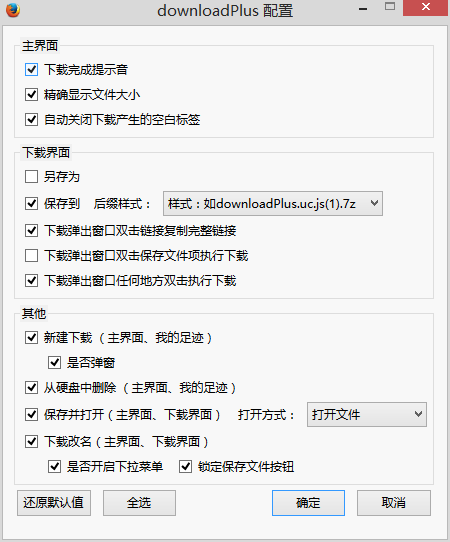
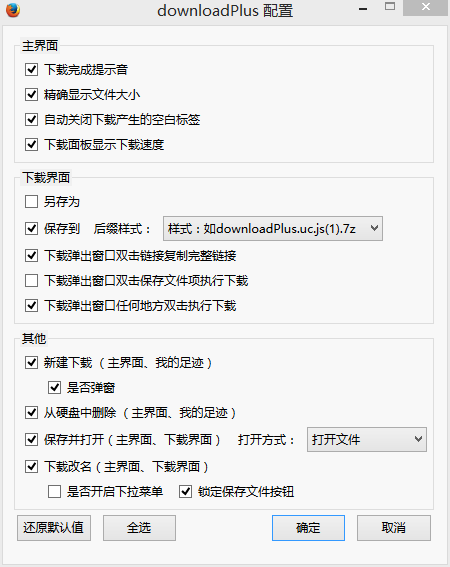
update
使用黒仪大螃蟹的最新"从硬盘中删除"代码
增加"下载面板显示下载速度"功能
改名为newDownloadPlus.uc.js

diff --git a/.test/newDownloadPlus.uc.js b/.test/newDownloadPlus.uc.js
@@ -1,5 +1,5 @@
 // ==UserScript==
-// @name         downloadPlus V38.uc.js
+// @name         newDownloadPlus.uc.js
 // @description  从硬盘中删除+下载重命名并可转码+双击复制链接+另存为+保存并打开+完成下载提示音+自动关闭下载产生的空白标签。
 // @author       Kelo 再次修改整合  (w13998686967、ywzhaiqi、黒仪大螃蟹、Alice0775、紫云飞)
 // @charset      UTF-8
@@ -12,6 +12,7 @@
 // @shutdown     window.downloadPlus.onDestroy();
 // @optionsURL   about:config?filter=userChromeJS.downloadPlus.
 // @config 	 window.downloadPlus.openPref();
+// @version      2015.05.07 使用黒仪大螃蟹的最新"从硬盘中删除"代码  增加"下载面板显示下载速度"功能
 // @version      2015.05.03 修复一些Bug，脚本开关无需重启了
 // @version      2015.05.02 修复多个功能，完美支持FFV38，完善设置UI。增加N个功能
 // @version      2015.05.01 修复多个功能，增加设置UI
@@ -73,6 +74,7 @@
 					case 'autoClose_blankTab':
 					case 'save_And_Open':
 					case 'save_And_Open_RorL':
+					case 'download_speed':
 					case 'download_dialog_changeName':
 					case 'download_dialog_changeName_encodingConvert':
 					case 'download_dialog_changeName_locking':
@@ -92,6 +94,7 @@
 		loadDefault: function() {
 			this.Default_DownloadUtils_convertByteUnits = DownloadUtils.convertByteUnits;
 			this.Default_gBrowser_mTabProgressListener = gBrowser.mTabProgressListener.toString();
+			this.Default_DownloadsViewItem_prototype_update = (DownloadsViewItem.prototype._updateStatusLine || DownloadsViewItem.prototype._updateProgress).toString();
 		},
 
 		loadSetting: function(type) {
@@ -144,6 +147,9 @@
 						}
 						if (!type || type === "download_dialog_changeName") {
 							download_dialog_changeName_on_main(self.getPrefs(0, "download_dialog_changeName", false));
+						}
+						if (!type || type === "download_speed") {
+							download_speed(self.getPrefs(0, "download_speed", false));
 						}
 					}, 200);
 					break;
@@ -234,6 +240,7 @@
 							<preference id="autoClose_blankTab" type="bool" name="userChromeJS.downloadPlus.autoClose_blankTab"/>\
 							<preference id="save_And_Open" type="bool" name="userChromeJS.downloadPlus.save_And_Open"/>\
 							<preference id="save_And_Open_RorL" type="int" name="userChromeJS.downloadPlus.save_And_Open_RorL"/>\
+							<preference id="download_speed" type="bool" name="userChromeJS.downloadPlus.download_speed"/>\
 							<preference id="download_dialog_changeName" type="bool" name="userChromeJS.downloadPlus.download_dialog_changeName"/>\
 							<preference id="download_dialog_changeName_encodingConvert" type="bool" name="userChromeJS.downloadPlus.download_dialog_changeName_encodingConvert"/>\
 							<preference id="download_dialog_changeName_locking" type="bool" name="userChromeJS.downloadPlus.download_dialog_changeName_locking"/>\
@@ -254,6 +261,7 @@
 								$("autoClose_blankTab").value = aBool;\
 								$("save_And_Open").value = aBool;\
 								$("save_And_Open_RorL").value = aBool ? 1 : 0;\
+								$("download_speed").value = aBool;\
 								$("download_dialog_changeName").value = aBool;\
 								$("download_dialog_changeName_encodingConvert").value = aBool;\
 								$("download_dialog_changeName_locking").value = aBool;\
@@ -293,6 +301,7 @@
 							<checkbox id="downloadSound_Play" label="下载完成提示音" preference="downloadSound_Play"/>\
 							<checkbox id="downloadFileSize" label="精确显示文件大小" preference="downloadFileSize"/>\
 							<checkbox id="autoClose_blankTab" label="自动关闭下载产生的空白标签" preference="autoClose_blankTab"/>\
+							<checkbox id="download_speed" label="下载面板显示下载速度" preference="download_speed"/>\
 						</groupbox>\
 						<groupbox>\
 							<caption label="下载界面"/>\
@@ -490,54 +499,36 @@
 				if (state != "0" && state != "4" && state != "5")
 					RMBtn.removeAttribute("disabled");
 			},
-
 			removeMenu: function() {
-				try {
-					removeDownloadfile.removeStatus();
-				} catch (e) {};
+				try {removeDownloadfile.removeStatus();} catch (e) {};
 				if (document.querySelector("#removeDownload")) return;
 				var menuitem = document.createElement("menuitem"),
 					rlm = document.querySelector('.downloadRemoveFromHistoryMenuItem');
-				menuitem.setAttribute("label", rlm.getAttribute("label").indexOf("History") != -1 ? "Delete File" : "\u4ece\u7535\u8111\u786c\u76d8\u4e2d\u79fb\u9664");
+				menuitem.setAttribute("label", rlm.getAttribute("label").indexOf("History") != -1 ? "Delete File" : "\u4ECE\u786C\u76D8\u4E2D\u5220\u9664");
 				menuitem.setAttribute("id", "removeDownload");
 
 				menuitem.onclick = function(e) {
 					if (e.target.disabled) return;
 					var path = "";
 					if (typeof DownloadsViewItemController != "undefined") {
-						try {
-							if (downloadPlus.appVersion < 38) {
-								DownloadsView._dataItems.forEach(function(item) {
-									if (item.downloadGuid == DownloadsView.richListBox.selectedItem.getAttribute("downloadGuid")) {
-										path = item.file;
-										if (item.done == false) path += ".part";
-										if (!path) console.error('错误\n不用担心，只是有时菜单捕获不到');
-										return path;
-									}
-								});
-							} else if (downloadPlus.appVersion >= 38) {
-								DownloadsView._downloads.forEach(function(item) {
-									var _path = decodeURI(DownloadsView.richListBox.selectedItem.image)
-										.replace(/moz\-icon\:\/\//, "").replace(/\?size\=32$/, "")
-										.replace(/\?size\=32\&state\=normal$/, "").replace(/\//g, "\\\\");
-									if (item.target.path == _path) path = _path;
-									if (DownloadsView.richListBox.selectedItem.getAttribute('state') == "2") path = path + ".part";
-									if (!path) console.error('错误\n不用担心，只是有时菜单捕获不到');
-									return path;
-								});
-							}
-						} catch (e) {
-							path = decodeURI(DownloadsView.richListBox.selectedItem.image)
-								.replace(/moz\-icon\:\/\/file\:\/\/\//, "").replace(/\?size\=32$/, "")
-								.replace(/\?size\=32\&state\=normal$/, "").replace(/\//g, "\\\\");
-							if (DownloadsView.richListBox.selectedItem.getAttribute('state') == "2") path = path + ".part";
-							if (!path) console.error('错误\n不用担心，只是有时菜单捕获不到');
+						let selectedItem = DownloadsView.richListBox.selectedItem;
+						if (DownloadsView.controllerForElement) {
+							//FF38
+							path = DownloadsView.controllerForElement(selectedItem).download.target.path;
+						} else {
+							//FF37
+							path = (new DownloadsViewItemController(selectedItem)).dataItem.file;
 						}
 					} else {
 						DownloadsView = document.getElementById("downloadsRichListBox")._placesView;
-						var selectedItems = DownloadsView._richlistbox.selectedItems;
-						if (downloadPlus.appVersion < 38) path = selectedItems[0]._shell._metaData.filePath;
-						else if (downloadPlus.appVersion >= 38) path = selectedItems[0]._shell.download.target.path;
+						let selectedItemsShell = DownloadsView._richlistbox.selectedItems[0]._shell;
+						if (!(selectedItemsShell._metaData && selectedItemsShell._metaData.filePath)) {
+							//FF38
+							path = (selectedItemsShell._sessionDownload || selectedItemsShell._historyDownload).target.path;
+						} else {
+							//FF37
+							path = selectedItemsShell._metaData.filePath;
+						}
 					}
 
 					var file = Components.classes["@mozilla.org/file/local;1"].createInstance(Components.interfaces.nsILocalFile);
@@ -549,14 +540,26 @@
 							.getFileFromURLSpec(path).path;
 						file.initWithPath(fileUrl);
 					}
+					if (!file.exists()) {
+						if (/\..{0,10}(\.part)$/.test(file.path))
+							file.initWithPath(file.path.replace(".part", ""));
+						else
+							file.initWithPath(file.path + ".part");
+					}
 					if (file.exists()) {
 						file.permissions |= 0666;
 						file.remove(0);
 					}
 
 					if (typeof DownloadsViewItemController != "undefined") {
-						if (downloadPlus.appVersion < 38) new DownloadsViewItemController(DownloadsView.richListBox.selectedItem).doCommand("cmd_delete");
-						else if (downloadPlus.appVersion >= 38) DownloadsView.controllerForElement(DownloadsView.richListBox.selectedItem).doCommand("cmd_delete");
+						let selectedItem = DownloadsView.richListBox.selectedItem;
+						if (DownloadsView.controllerForElement) {
+							//FF38
+							DownloadsView.controllerForElement(selectedItem).doCommand("cmd_delete");
+						} else {
+							//FF37
+							(new DownloadsViewItemController(selectedItem)).doCommand("cmd_delete");
+						}
 					} else {
 						DownloadsView.doCommand("cmd_delete");
 					}
@@ -566,21 +569,19 @@
 				removeDownloadfile.removeStatus();
 			},
 
-			Start: function() {
+			init: function() {
 				document.querySelector("#downloadsContextMenu").addEventListener("popupshowing", this.removeMenu, false);
-
 			}
 		}
 		if (location != "chrome://browser/content/places/places.xul") {
 			try {
 				eval("DownloadsPanel.showPanel = " + DownloadsPanel.showPanel.toString()
-					.replace(/this\.\_openPopupIfDataReady\(\)/, "{$&;removeDownloadfile\.Start\(\);}"));
-
+					.replace(/(?:this|DownloadsPanel)\.\_openPopupIfDataReady\(\)/, "{$&;removeDownloadfile\.init\(\);}"));
 			} catch (e) {
 				//Components.utils.reportError(e);
 			}
 		} else {
-			removeDownloadfile.Start();
+			removeDownloadfile.init();
 		}
 	}
 
@@ -626,7 +627,7 @@
 			saveAndOpen.setAttribute("label", "\u4FDD\u5B58\u5E76\u6253\u5F00");
 			saveAndOpen.setAttribute("oncommand", 'Components.classes["@mozilla.org/browser/browserglue;1"].getService(Components.interfaces.nsIBrowserGlue).getMostRecentBrowserWindow().saveAndOpen.urls.push(dialog.mLauncher.source.asciiSpec);document.querySelector("#save").click();document.documentElement.getButton("accept").disabled=0;document.documentElement.getButton("accept").click()')
 		}
-	//作用于 main 窗口
+		//作用于 main 窗口
 	function saveAndOpen_on_main(enable) {
 		if (!enable) return;
 		Components.utils.import("resource://gre/modules/Downloads.jsm");
@@ -878,6 +879,27 @@
 			downloadPlus.download_dialog_doubleclickanyW && document.documentElement.getButton("accept").click();
 			event.target.nodeName === "radio" && document.documentElement.getButton("accept").click();
 		}, false)
+	}
+
+	function download_speed(enable) {
+		if (!enable) {
+			if (downloadPlus.appVersion >= 38) {
+				eval("DownloadsViewItem.prototype._updateProgress = " +
+					downloadPlus.Default_DownloadsViewItem_prototype_update);
+			} else if (downloadPlus.appVersion < 38) {
+				eval("DownloadsViewItem.prototype._updateStatusLine = " +
+					downloadPlus.Default_DownloadsViewItem_prototype_update)
+			}
+			return;
+		}
+		if (downloadPlus.appVersion >= 38) {
+			eval("DownloadsViewItem.prototype._updateProgress = " +
+				DownloadsViewItem.prototype._updateProgress.toString().replace('status.text', 'status.tip'));
+		} else if (downloadPlus.appVersion < 38) {
+			eval("DownloadsViewItem.prototype._updateStatusLine = " +
+				DownloadsViewItem.prototype._updateStatusLine.toString().replace('[statusTip', '[status'))
+		}
+
 	}
 
 	function $(id, doc) {

diff --git a/.test/README.md b/.test/README.md
@@ -2,7 +2,7 @@
 ===================================  
 测试中的 UC 脚本
 
-downloadPlus V38.uc.js
+newDownloadPlus.uc.js
 ----------------------------------- 
  - 修复此脚本在 Firefox V38 下的各种问题，并增加一些原脚本没有的功能。（V38以下仍支持）  
  - 还有点小问题，正在测试中...   
@@ -15,7 +15,7 @@ downloadPlus V38.uc.js
  - "从硬盘中删除"、"保存并打开"功能由打开到关闭需要重启后生效（暂时这样马上会更新的）。  
 
  - **原功能**
-  - 从硬盘中删除 （已修复在V38问题，V37以下可能还有问题，等待更新）
+  - 从硬盘中删除
   - 下载重命名并可转码
   - 双击复制链接
   - 另存为
@@ -27,12 +27,14 @@ downloadPlus V38.uc.js
   - [x] 设置UI，轻松操作，再也不用改代码。  
   - [x] 下载弹出窗口任何地方双击执行下载。  
   - [x] "保存并打开"，新增打开方式（打开所在文件夹、打开文件）。  
+  - [x] "下载面板显示下载速度" 功能。  
   - [ ] "保存到" 设置文件夹的UI 正在开发中，敬请期待。  *如要修改在脚本826行。*   
   - [ ] "根据后缀名自动保存到指定文件夹" 功能正在开发中，敬请期待。  
 
 ###图片  
 ![](https://github.com/GH-Kelo/userChromeJS/raw/master/.test/img/downloadPlus 设置.png "downloadPlus 设置")  
 ###更新记录  
+ - 2015.05.07 使用黒仪大螃蟹的最新"从硬盘中删除"代码  增加"下载面板显示下载速度"功能  改名为newDownloadPlus.uc.js
  - 2015.05.03 修复一些Bug，脚本开关无需重启了  
  - 2015.05.02 修复多个功能，完美支持FFV38，完善设置UI。增加N个功能  
  - 2015.05.01 修复多个功能，增加设置UI  
